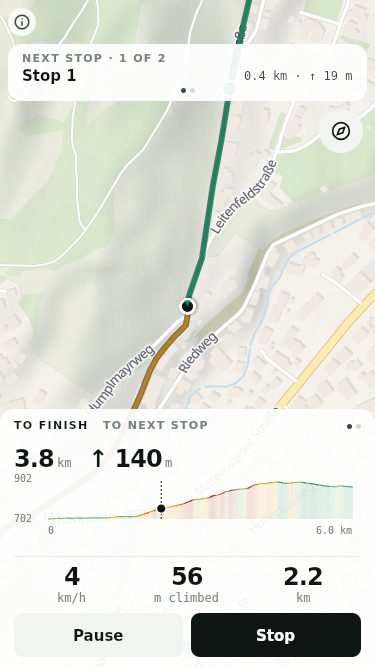
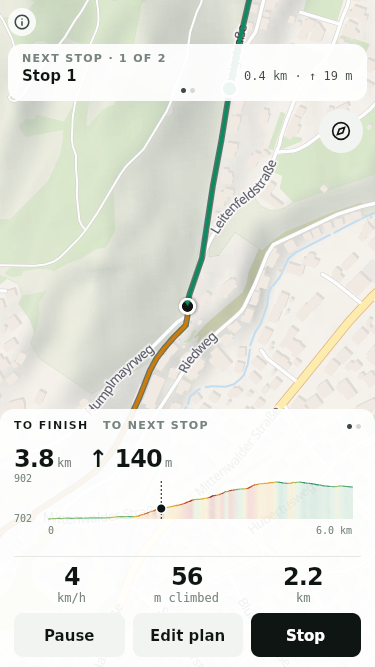
desktopApp: the riding scenes show Edit plan, the detour dialog, and a detour's leg routing

Changed region(s): [[0.3813, 0.8996, 0.88, 0.9895], [0.1173, 0.9295, 0.3227, 0.9595]]

diff --git a/app/desktopApp/src/main/kotlin/net/stho/tracks/desktop/Screenshots.kt b/app/desktopApp/src/main/kotlin/net/stho/tracks/desktop/Screenshots.kt
@@ -38,7 +38,14 @@ import kotlinx.coroutines.withContext
 import net.stho.tracks.codec.Coordinate
 import net.stho.tracks.recording.Entry
 import net.stho.tracks.recording.Tally
+import net.stho.tracks.riding.Detour
 import net.stho.tracks.riding.Follower
+import net.stho.tracks.riding.detour
+import net.stho.tracks.store.PlanRouting
+import net.stho.tracks.ui.riding.DetourDialog
+import net.stho.tracks.ui.riding.DetourTarget
+import net.stho.tracks.ui.riding.UndoControls
+import androidx.compose.ui.Alignment
 import net.stho.tracks.riding.Progress
 import net.stho.tracks.riding.Route
 import net.stho.tracks.sensors.Pressure
@@ -103,7 +110,7 @@ private const val PIXEL_TOLERANCE = 0.0003
 private const val TAP_TOLERANCE_PX = 2.0
 
 /** What a scene draws: the map on its own, or one of the app's screens over it. */
-private enum class Screen { Map, Home, HomeMenu, Preview, Editor, EditorRouting, EditorDialog, EditorNew, StopCarried, Riding, FreeRide }
+private enum class Screen { Map, Home, HomeMenu, Preview, Editor, EditorRouting, EditorDialog, EditorNew, StopCarried, Riding, RidingDialog, RidingDetour, FreeRide }
 
 /** The iPhone SE2's 4.7″ screen, the phone every device check runs on: what riding has to fit. */
 private val SE2 = DpSize(375.dp, 667.dp)
@@ -136,6 +143,8 @@ private val SCENES = listOf(
     Scene("stop-carried", second = 185, camera = { MapCamera.Follow(Orientation.NorthUp) }, screen = Screen.StopCarried),
     // 2.2 km in, 400 m before the ride's stop: the camera the riding screen sets, on the phone it has to fit.
     Scene("riding", second = 700, camera = { MapCamera.Follow(Orientation.HeadingUp) }, screen = Screen.Riding, size = SE2),
+    Scene("riding-dialog", second = 700, camera = { MapCamera.Follow(Orientation.HeadingUp) }, screen = Screen.RidingDialog, size = SE2),
+    Scene("riding-detour", second = 700, camera = { MapCamera.Follow(Orientation.HeadingUp) }, screen = Screen.RidingDetour, size = SE2),
     Scene("free-ride", second = 700, camera = { MapCamera.Follow(Orientation.HeadingUp) }, screen = Screen.FreeRide, size = SE2),
     Scene("follow", second = 185, camera = { MapCamera.Follow(Orientation.HeadingUp, FOLLOW_ZOOM) }),
     Scene("stop-compass", second = 950, camera = { MapCamera.Follow(Orientation.HeadingUp, FOLLOW_ZOOM) }),
@@ -315,7 +324,7 @@ private fun render(scene: Scene, update: Boolean, record: Boolean) {
                             onIdle = onIdle,
                         )
                     }
-                    Screen.Riding, Screen.FreeRide -> {
+                    Screen.Riding, Screen.RidingDialog, Screen.RidingDetour, Screen.FreeRide -> {
                         // The ride up to this second, recorded and followed as the phone would have, fix by fix.
                         val ridden = remember { ride.fixes.take(scene.second + 1) }
                         val tally = remember {
@@ -326,9 +335,18 @@ private fun render(scene: Scene, update: Boolean, record: Boolean) {
                                 }
                             }
                         }
+                        // Somewhere 300 m off the road ahead: where the dialog was raised, and the detour goes through.
+                        val detourAt = remember { ride.fixes[scene.second + 150].at.let { Coordinate(it.lat + 0.0027, it.lon) } }
                         val navigation = remember {
-                            if (scene.screen != Screen.Riding) return@remember null
-                            val stored = PlanStore(RIDING.absolutePath.toPath(), FileSystem.SYSTEM).list().single()
+                            if (scene.screen == Screen.FreeRide) return@remember null
+                            val recorded = PlanStore(RIDING.absolutePath.toPath(), FileSystem.SYSTEM).list().single()
+                            // Made on the leg the rider is on, and not routed yet: the leg a straight dash, still.
+                            val stored = if (scene.screen != Screen.RidingDetour) {
+                                recorded
+                            } else {
+                                val plan = detour(recorded.plan, recorded.legs, 0, detourAt, Detour.Through, null)
+                                recorded.copy(plan = plan, legs = listOf(null, recorded.legs[1]))
+                            }
                             val route = Route(stored.plan.waypoints, stored.legs)
                             val follower = Follower(route)
                             var progress: Progress? = null
@@ -341,15 +359,26 @@ private fun render(scene: Scene, update: Boolean, record: Boolean) {
                             heading = heading,
                             ridden = ridden.map { it.at },
                             navigation = navigation,
-                            routing = null,
+                            routing = PlanRouting(routing = 0).takeIf { scene.screen == Screen.RidingDetour },
                             elevation = remember { tally.elevation.terrain() },
                             stats = RideStats(paused = false, distanceM = tally.odometer.distanceM, climbedM = tally.climb.gainM),
                             onPause = {},
                             onResume = {},
                             onStop = {},
+                            onEditPlan = {},
+                            undo = UndoControls(canUndo = true, canRedo = false, onUndo = {}, onRedo = {}).takeIf { scene.screen == Screen.RidingDetour },
                             pulse = false,
                             onIdle = onIdle,
-                        )
+                        ) {
+                            if (scene.screen == Screen.RidingDialog) {
+                                DetourDialog(
+                                    DetourTarget(detourAt, "Kochelberg"),
+                                    onDetour = {},
+                                    onClose = {},
+                                    modifier = Modifier.align(Alignment.BottomCenter).padding(12.dp),
+                                )
+                            }
+                        }
                     }
                     Screen.StopCarried -> {
                         // No map here, so nothing idles on its own: the list is drawn at once.
